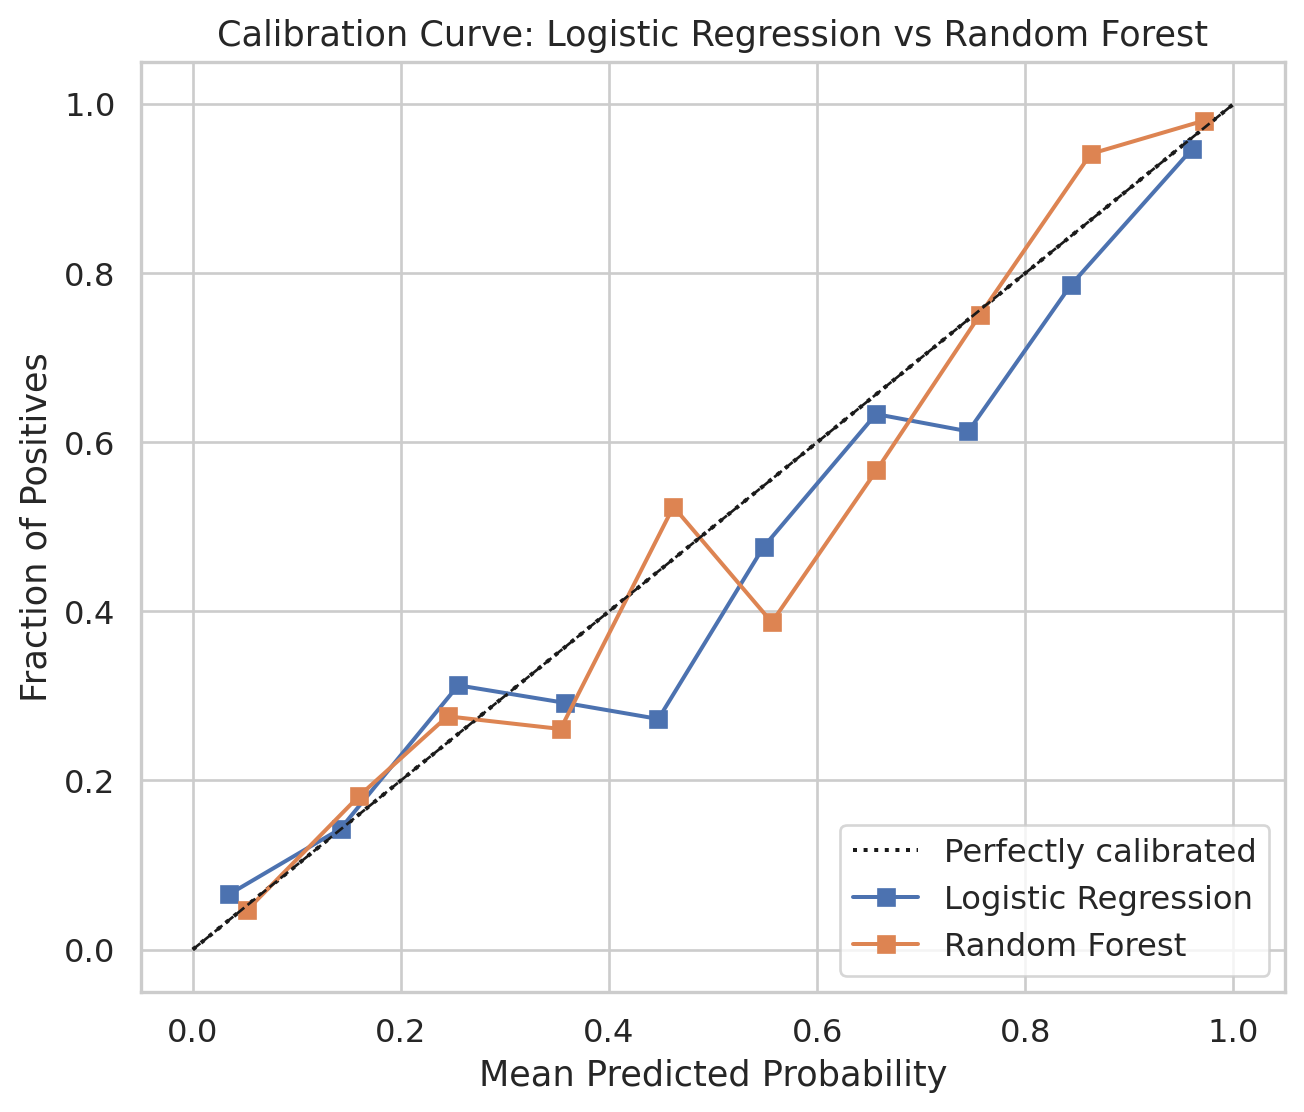
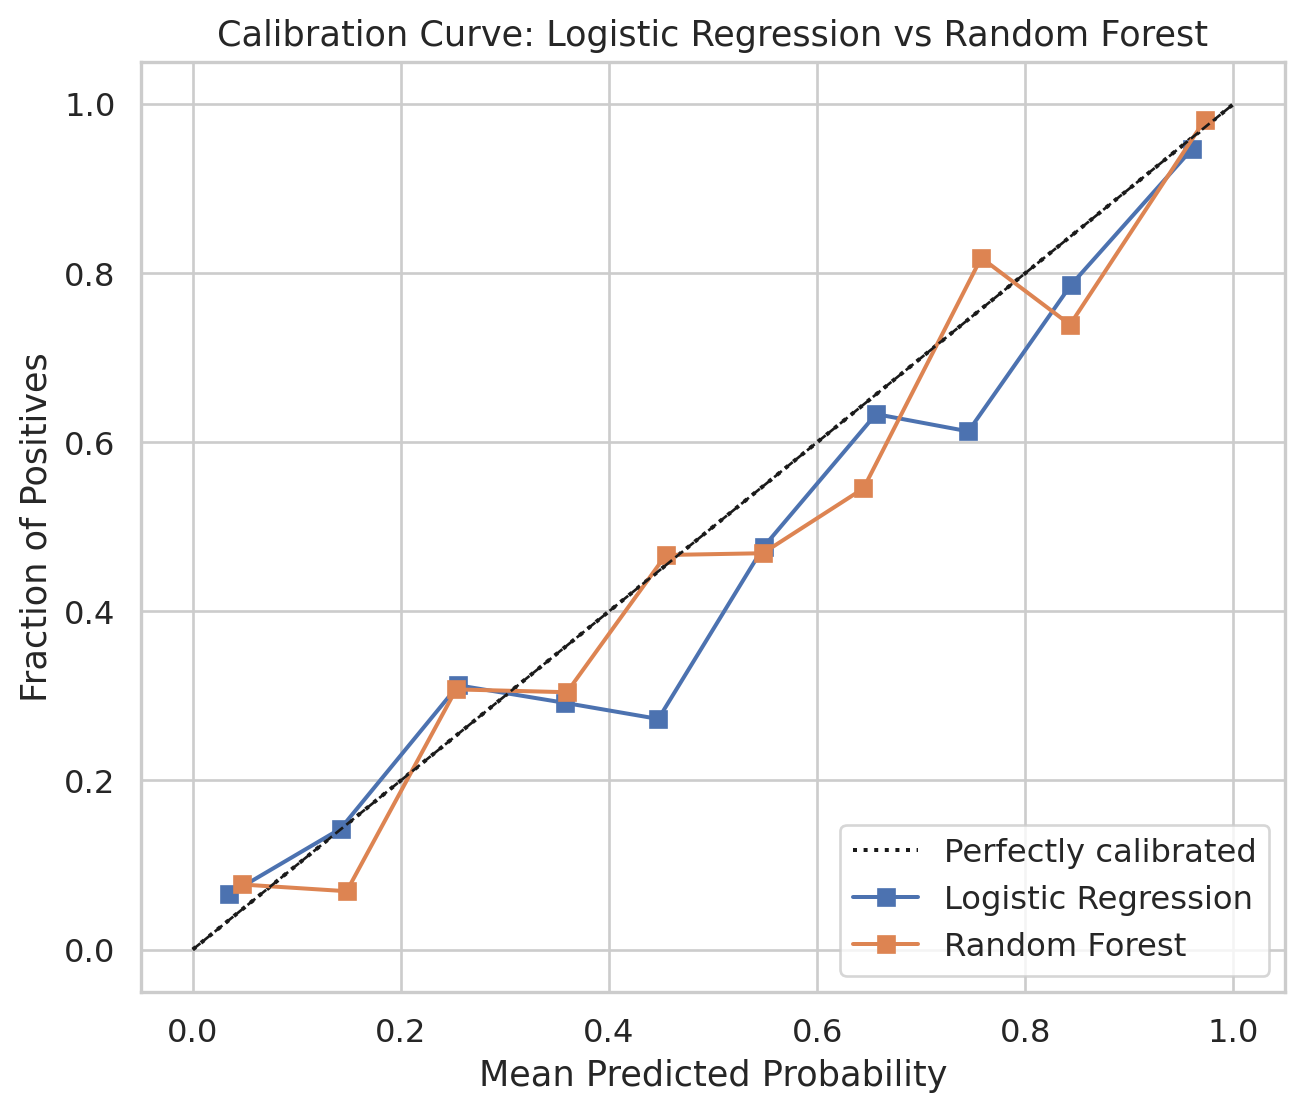
updating one figure

diff --git a/_site/presentation.html b/_site/presentation.html
@@ -223,7 +223,7 @@ Ava Lasater
 </section>
 <section id="correlation-matrix-of-numerical-features" class="slide level2 smaller">
 <h2>Correlation Matrix of Numerical Features</h2>
-<div id="c2e41a94" class="cell" data-fig-height="6" data-fig-responsive="false" data-fig-width="8" data-execution_count="4">
+<div id="a780d1a2" class="cell" data-fig-height="6" data-fig-responsive="false" data-fig-width="8" data-execution_count="4">
 <div class="cell-output cell-output-display">
 <div class="quarto-figure quarto-figure-center">
 <figure>
@@ -264,7 +264,7 @@ Ava Lasater
 </section>
 <section id="linear-regression-results-1" class="slide level2 smaller">
 <h2>Linear Regression Results</h2>
-<div id="9fed63d7" class="cell" data-fig-height="6" data-fig-responsive="false" data-fig-width="8" data-execution_count="5">
+<div id="66798e18" class="cell" data-fig-height="6" data-fig-responsive="false" data-fig-width="8" data-execution_count="5">
 <div class="cell-output cell-output-stdout">
 <pre><code>Mean Squared Error: 110300510.89
 R-squared: 0.4855</code></pre>
@@ -295,7 +295,7 @@ R-squared: 0.4855</code></pre>
 </section>
 <section id="ridge-regression-results-1" class="slide level2 smaller">
 <h2>Ridge Regression Results</h2>
-<div id="71c310a7" class="cell" data-fig-height="6" data-fig-responsive="false" data-fig-width="10" data-execution_count="6">
+<div id="36ed5745" class="cell" data-fig-height="6" data-fig-responsive="false" data-fig-width="10" data-execution_count="6">
 <div class="cell-output cell-output-stdout">
 <pre><code>Ridge Regression:
 Mean Squared Error: 110226157.793066
@@ -329,7 +329,7 @@ R-squared: 0.48583010161522244</code></pre>
 </section>
 <section id="selectkbest-feature-selection" class="slide level2">
 <h2>SelectKBest Feature Selection</h2>
-<div id="06feda4f" class="cell" data-fig-height="6" data-fig-responsive="false" data-fig-width="10" data-execution_count="7">
+<div id="bba73abb" class="cell" data-fig-height="6" data-fig-responsive="false" data-fig-width="10" data-execution_count="7">
 <div class="cell-output cell-output-display">
 <div class="quarto-figure quarto-figure-center">
 <figure>
@@ -360,29 +360,11 @@ R-squared: 0.48583010161522244</code></pre>
 </section>
 <section id="permutation-importance" class="slide level2">
 <h2>Permutation Importance</h2>
-<div id="dcb95970" class="cell" data-fig-height="6" data-fig-responsive="false" data-fig-width="10" data-execution_count="8">
-<div class="cell-output cell-output-stdout">
-<pre><code>TUITIONFEE_IN             0.0
-TUITIONFEE_OUT            0.0
-GRAD_DEBT_MDN             0.0
-RET_FT4                   0.0
-C100_4                    0.0
-PCTPELL                   0.0
-UGDS                      0.0
-REGION_Mid East           0.0
-REGION_Great Lakes        0.0
-REGION_Plains             0.0
-REGION_Southeast          0.0
-REGION_Southwest          0.0
-REGION_Rocky Mountains    0.0
-REGION_Far West           0.0
-REGION_Outlying Areas     0.0
-dtype: float64</code></pre>
-</div>
+<div id="ec995749" class="cell" data-fig-height="6" data-fig-responsive="false" data-fig-width="10" data-execution_count="8">
 <div class="cell-output cell-output-display">
 <div class="quarto-figure quarto-figure-center">
 <figure>
-<p><img data-src="presentation_files/figure-revealjs/cell-9-output-2.png" class="quarto-figure quarto-figure-center" width="940" height="556"></p>
+<p><img data-src="presentation_files/figure-revealjs/cell-9-output-1.png" class="quarto-figure quarto-figure-center" width="940" height="556"></p>
 </figure>
 </div>
 </div>
@@ -409,10 +391,10 @@ dtype: float64</code></pre>
 </section>
 <section id="logistic-regression-results" class="slide level2 smaller">
 <h2>Logistic Regression Results</h2>
-<div id="3fa18828" class="cell" data-fig-height="5" data-fig-responsive="false" data-fig-width="12" data-execution_count="9">
+<div id="6ad71414" class="cell" data-fig-height="5" data-fig-responsive="false" data-fig-width="12" data-execution_count="9">
 <div class="cell-output cell-output-stdout">
 <pre><code>k-Fold F1-Score: 0.80
-k-Fold CV took 0.08 seconds
+k-Fold CV took 0.14 seconds
 
 Logistic Regression Accuracy: 0.7728813559322034
 Logistic Regression Precision: 0.7775823831391786
@@ -454,20 +436,20 @@ Logistic Regression F-1 Score: 0.7719854657317307</code></pre>
 </section>
 <section id="random-forest-results" class="slide level2 smaller">
 <h2>Random Forest Results</h2>
-<div id="ff3c58b9" class="cell" data-fig-height="5" data-fig-responsive="false" data-fig-width="12" data-execution_count="10">
+<div id="52f8c808" class="cell" data-fig-height="5" data-fig-responsive="false" data-fig-width="12" data-execution_count="10">
 <div class="cell-output cell-output-stdout">
 <pre><code>Random Forest Cross Validation
 k-Fold F1-Score: 0.81
-k-Fold CV took 1.11 seconds
-Random Forest Accuracy: 0.7559322033898305
-Random Forest Precision: 0.7571697903612158
-Random Forest Recall: 0.7559322033898305
-Random Forest F-1 Score: 0.7556795568392357</code></pre>
+k-Fold CV took 1.08 seconds
+Random Forest Accuracy: 0.7627118644067796
+Random Forest Precision: 0.7659258699084007
+Random Forest Recall: 0.7627118644067796
+Random Forest F-1 Score: 0.762055768179333</code></pre>
 </div>
 <div class="cell-output cell-output-display">
 <div class="quarto-figure quarto-figure-center">
 <figure>
-<p><img data-src="presentation_files/figure-revealjs/cell-11-output-2.png" class="quarto-figure quarto-figure-center" width="1220" height="460"></p>
+<p><img data-src="presentation_files/figure-revealjs/cell-11-output-2.png" class="quarto-figure quarto-figure-center" width="1229" height="460"></p>
 </figure>
 </div>
 </div>
@@ -475,7 +457,7 @@ Random Forest F-1 Score: 0.7556795568392357</code></pre>
 </section>
 <section id="calibration-probabilities-vs.-accuracy" class="slide level2 smaller">
 <h2>Calibration: Probabilities vs.&nbsp;Accuracy</h2>
-<div id="28a68c88" class="cell" data-fig-height="6" data-fig-responsive="false" data-fig-width="7" data-execution_count="11">
+<div id="9030d694" class="cell" data-fig-height="6" data-fig-responsive="false" data-fig-width="7" data-execution_count="11">
 <div class="cell-output cell-output-display">
 <div class="quarto-figure quarto-figure-center">
 <figure>
